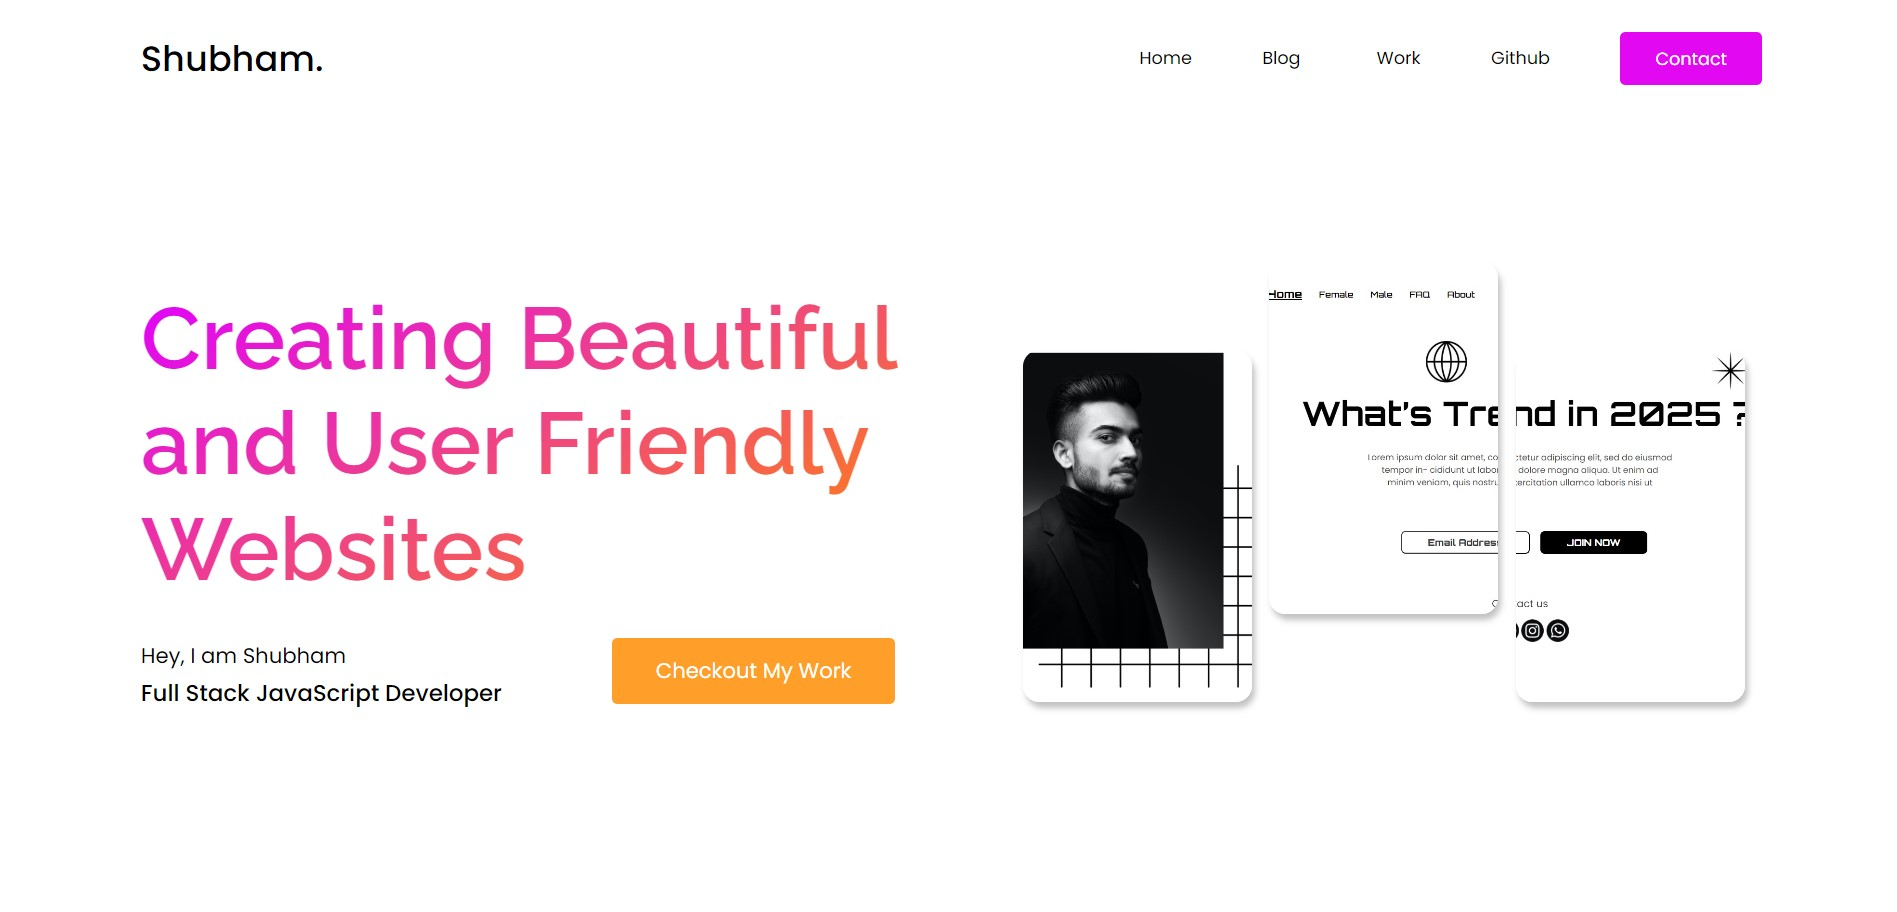
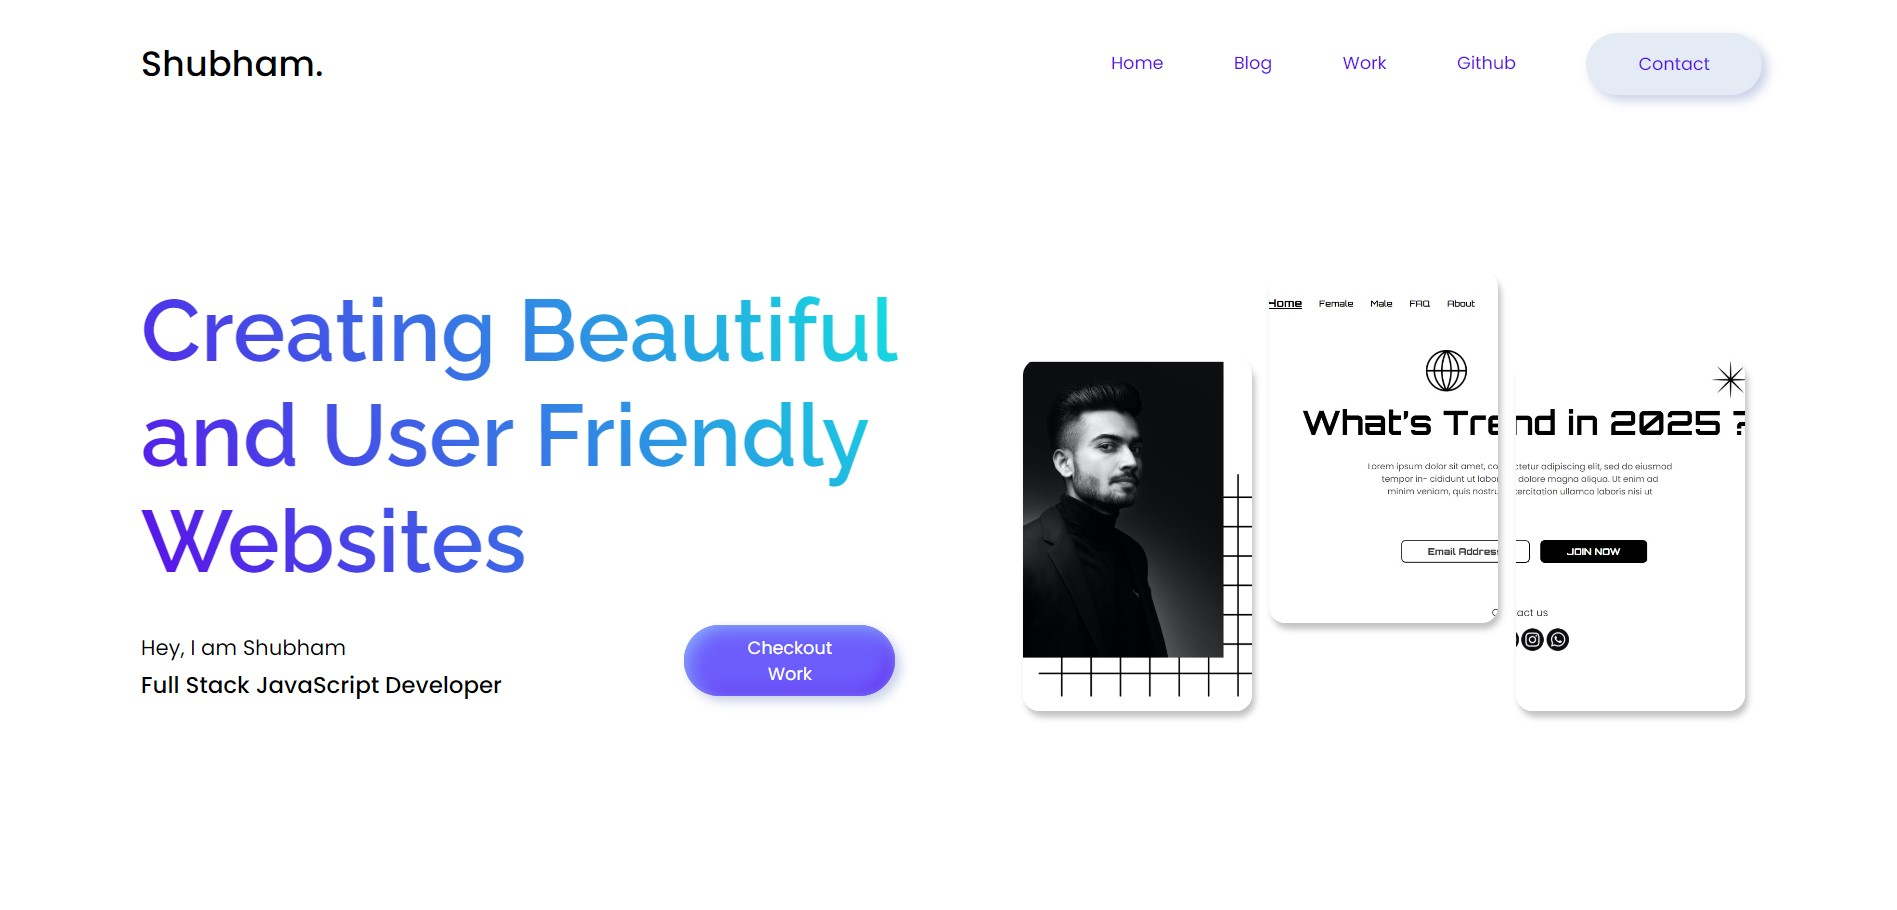
Button Design Changes

diff --git a/index.html b/index.html
@@ -26,7 +26,7 @@
                 >Github</a
               >
             </li>
-            <li class="contact">
+            <li class="contact btn btn__secondary">
               <a target="_blank" href="https://instagram.com/shubhamvscode"
                 >Contact</a
               >
@@ -43,8 +43,8 @@
               Hey, I am Shubham <br />
               <span> Full Stack JavaScript Developer </span>
 
-              <button class="hero-work-btn" type="button">
-                Checkout My Work
+              <button class="hero-work-btn btn btn__primary" type="button">
+                <a href="#work"> Checkout Work </a>
               </button>
             </p>
           </div>
@@ -70,12 +70,14 @@
             <div class="project-title">Trends in 2025</div>
             <div class="project-links">
               <a href="https://trending2025.netlify.app/">
-                <button class="project-live-link">Live</button>
+                <button class="project-live-link btn btn__primary">Live</button>
               </a>
               <a
                 href="https://github.com/ShubhamVsCode/Project-1-Trends-in-2025"
               >
-                <button class="project-github-link">
+                <button
+                  class="project-github-link btn btn__secondary btn btn__secondary"
+                >
                   <svg
                     fill="#000000"
                     xmlns="http://www.w3.org/2000/svg"
@@ -102,11 +104,11 @@
             <div class="project-title">iNeuron Eats</div>
             <div class="project-links">
               <a href="https://ineuroneats.netlify.app/">
-                <button class="project-live-link">Live</button>
+                <button class="project-live-link btn btn__primary">Live</button>
               </a>
 
               <a href="https://github.com/ShubhamVsCode/Project-2-iNeuron-Eats">
-                <button class="project-github-link">
+                <button class="project-github-link btn btn__secondary">
                   <svg
                     fill="#000000"
                     xmlns="http://www.w3.org/2000/svg"
@@ -133,12 +135,12 @@
             <div class="project-title">Court Justice</div>
             <div class="project-links">
               <a href="https://courtjustice.netlify.app/">
-                <button class="project-live-link">Live</button>
+                <button class="project-live-link btn btn__primary">Live</button>
               </a>
               <a
                 href="https://github.com/ShubhamVsCode/Project-3-Court-Justice"
               >
-                <button class="project-github-link">
+                <button class="project-github-link btn btn__secondary">
                   <svg
                     fill="#000000"
                     xmlns="http://www.w3.org/2000/svg"
@@ -165,12 +167,12 @@
             <div class="project-title">Crush You Competition</div>
             <div class="project-links">
               <a href="https://crushcompetition.netlify.app/">
-                <button class="project-live-link">Live</button>
+                <button class="project-live-link btn btn__primary">Live</button>
               </a>
               <a
                 href="https://github.com/ShubhamVsCode/Project-4-Crush-Your-Competition"
               >
-                <button class="project-github-link">
+                <button class="project-github-link btn btn__secondary">
                   <svg
                     fill="#000000"
                     xmlns="http://www.w3.org/2000/svg"
@@ -197,10 +199,10 @@
             <div class="project-title">Web3 DAO</div>
             <div class="project-links">
               <a href="https://web3dao.netlify.app/">
-                <button class="project-live-link">Live</button>
+                <button class="project-live-link btn btn__primary">Live</button>
               </a>
               <a href="https://github.com/ShubhamVsCode/Project-5-Web-3-DAO">
-                <button class="project-github-link">
+                <button class="project-github-link btn btn__secondary">
                   <svg
                     fill="#000000"
                     xmlns="http://www.w3.org/2000/svg"
@@ -227,12 +229,12 @@
             <div class="project-title">Monstera Care</div>
             <div class="project-links">
               <a href="https://monsteracare.netlify.app/">
-                <button class="project-live-link">Live</button>
+                <button class="project-live-link btn btn__primary">Live</button>
               </a>
               <a
                 href="https://github.com/ShubhamVsCode/Project-6-Monstera-Care"
               >
-                <button class="project-github-link">
+                <button class="project-github-link btn btn__secondary">
                   <svg
                     fill="#000000"
                     xmlns="http://www.w3.org/2000/svg"
@@ -259,10 +261,10 @@
             <div class="project-title">iNeuron Cart</div>
             <div class="project-links">
               <a href="https://ineuroncart.netlify.app/">
-                <button class="project-live-link">Live</button>
+                <button class="project-live-link btn btn__primary">Live</button>
               </a>
               <a href="https://github.com/ShubhamVsCode/Project-7-iNeuron-Cart">
-                <button class="project-github-link">
+                <button class="project-github-link btn btn__secondary">
                   <svg
                     fill="#000000"
                     xmlns="http://www.w3.org/2000/svg"
@@ -289,13 +291,13 @@
             <div class="project-title">Web Design Landing Page</div>
             <div class="project-links">
               <a href="https://ineurondesign.netlify.app/">
-                <button class="project-live-link">Live</button>
+                <button class="project-live-link btn btn__primary">Live</button>
               </a>
 
               <a
                 href="https://github.com/ShubhamVsCode/Project-8-Web-Design-Landing-Page"
               >
-                <button class="project-github-link">
+                <button class="project-github-link btn btn__secondary">
                   <svg
                     fill="#000000"
                     xmlns="http://www.w3.org/2000/svg"
@@ -322,13 +324,13 @@
             <div class="project-title">Portfolio</div>
             <div class="project-links">
               <a href="https://jsdevportfolio.netlify.app/">
-                <button class="project-live-link">Live</button>
+                <button class="project-live-link btn btn__primary">Live</button>
               </a>
 
               <a
                 href="https://github.com/ShubhamVsCode/Project-9-Developer-Landing-Page"
               >
-                <button class="project-github-link">
+                <button class="project-github-link btn btn__secondary">
                   <svg
                     fill="#000000"
                     xmlns="http://www.w3.org/2000/svg"
@@ -356,13 +358,13 @@
             <div class="project-title">Interior Design</div>
             <div class="project-links">
               <a href="https://interiordesignspage.netlify.app/">
-                <button class="project-live-link">Live</button>
+                <button class="project-live-link btn btn__primary">Live</button>
               </a>
 
               <a
                 href="https://github.com/ShubhamVsCode/Project-10-Interior-Design"
               >
-                <button class="project-github-link">
+                <button class="project-github-link btn btn__secondary">
                   <svg
                     fill="#000000"
                     xmlns="http://www.w3.org/2000/svg"
@@ -390,13 +392,13 @@
             <div class="project-title">Hosting Landing Page</div>
             <div class="project-links">
               <a href="https://ihosting.netlify.app/">
-                <button class="project-live-link">Live</button>
+                <button class="project-live-link btn btn__primary">Live</button>
               </a>
 
               <a
                 href="https://github.com/ShubhamVsCode/Project-11-Hosting-Website"
               >
-                <button class="project-github-link">
+                <button class="project-github-link btn btn__secondary">
                   <svg
                     fill="#000000"
                     xmlns="http://www.w3.org/2000/svg"
@@ -424,11 +426,11 @@
             <div class="project-title">SAAS Landing Page</div>
             <div class="project-links">
               <a href="https://isaas.netlify.app/">
-                <button class="project-live-link">Live</button>
+                <button class="project-live-link btn btn__primary">Live</button>
               </a>
 
               <a href="https://github.com/ShubhamVsCode/Project-13-SAAS">
-                <button class="project-github-link">
+                <button class="project-github-link btn btn__secondary">
                   <svg
                     fill="#000000"
                     xmlns="http://www.w3.org/2000/svg"
@@ -456,11 +458,11 @@
             <div class="project-title">Creativity</div>
             <div class="project-links">
               <a href="https://icreativity.netlify.app/">
-                <button class="project-live-link">Live</button>
+                <button class="project-live-link btn btn__primary">Live</button>
               </a>
 
               <a href="https://github.com/ShubhamVsCode/Project-14-Creativity">
-                <button class="project-github-link">
+                <button class="project-github-link btn btn__secondary">
                   <svg
                     fill="#000000"
                     xmlns="http://www.w3.org/2000/svg"
@@ -487,13 +489,13 @@
             <div class="project-title">Visual Designer</div>
             <div class="project-links">
               <a href="https://ineuronportfolio.netlify.app/">
-                <button class="project-live-link">Live</button>
+                <button class="project-live-link btn btn__primary">Live</button>
               </a>
 
               <a
                 href="https://github.com/ShubhamVsCode/Project-15-Portfolio-Website"
               >
-                <button class="project-github-link">
+                <button class="project-github-link btn btn__secondary">
                   <svg
                     fill="#000000"
                     xmlns="http://www.w3.org/2000/svg"
@@ -520,11 +522,11 @@
             <div class="project-title">My Portfolio</div>
             <div class="project-links">
               <a href="https://shubhamvscode.netlify.app/">
-                <button class="project-live-link">Live</button>
+                <button class="project-live-link btn btn__primary">Live</button>
               </a>
 
               <a href="https://github.com/ShubhamVsCode/My-Portfolio">
-                <button class="project-github-link">
+                <button class="project-github-link btn btn__secondary">
                   <svg
                     fill="#000000"
                     xmlns="http://www.w3.org/2000/svg"

diff --git a/css/style.css b/css/style.css
@@ -47,9 +47,10 @@ body {
   display: flex;
   align-items: center;
   gap: 4rem;
-}
-.nav-links {
   position: relative;
+}
+.nav-links a {
+  color: #5b0eeb;
 }
 
 .nav-links li:not(.contact) a::after {
@@ -58,9 +59,9 @@ body {
   top: 2px;
   content: "";
   height: 2px;
-  width: 40px;
+  width: 20px;
   border-radius: 1rem;
-  background: #c02cff;
+  background: #5b0eeb;
 
   opacity: 0;
 }
@@ -71,17 +72,12 @@ body {
 }
 
 .contact {
-  padding: 0.8rem 2rem;
-  background: #e208f1;
-  border-radius: 5px;
-  height: 3rem;
 }
 
 .contact a {
-  color: #fff;
+  color: #5b0eeb;
 }
 .contact:hover {
-  background: #c507d2;
 }
 
 .hero-container {
@@ -101,9 +97,12 @@ body {
   line-height: 1.2;
   color: transparent;
   background: rgb(0, 40, 117);
-  background: -webkit-linear-gradient(120deg, #ff8c00 0%, #e000ff 100%);
+  background: -webkit-linear-gradient(210deg, #13e0e0 0%, #5b0eeb 100%);
+  text-shadow: #8abdff;
   font-family: "Raleway";
   -webkit-background-clip: text;
+
+  margin-top: -2rem;
 }
 
 .hero-description {
@@ -119,20 +118,20 @@ body {
 }
 
 .hero-work-btn {
-  padding: 1rem 2.5rem;
-  background: #ff8c00d5;
+  width: 20rem;
+  padding: 2rem 6rem;
   position: absolute;
   right: 3px;
   bottom: 0.5rem;
   color: #fff;
-  font-size: 1.2rem;
+  font-size: 1rem;
   border: none;
   border-radius: 5px;
   cursor: pointer;
 }
 
-.hero-work-btn:hover {
-  background: #f58a06d5;
+.hero-work-btn a {
+  color: #fff;
 }
 
 .hero-right-section {
@@ -190,7 +189,7 @@ body {
   display: block;
   position: absolute;
   bottom: 4.5rem;
-  color: #ff00bf;
+  color: #5b0eeb;
   font-size: 5rem;
   font-weight: 900;
   font-family: "Raleway";
@@ -210,7 +209,7 @@ body {
   box-shadow: rgba(0, 0, 0, 0.18) 0px 2px 4px;
   border-radius: 10px;
   width: 28rem;
-  height: 22rem;
+  height: 22.6rem;
 }
 
 .project:hover {
@@ -269,9 +268,48 @@ body {
 }
 
 .project-live-link:hover {
-  box-shadow: rgba(205, 23, 255, 0.644) 2px 2px 2px;
+  /* box-shadow: rgba(205, 23, 255, 0.644) 2px 2px 2px; */
 }
 
 .project-github-link:hover {
-  box-shadow: rgba(0, 163, 46, 0.644) 2px 2px 2px;
+  /* box-shadow: rgba(0, 163, 46, 0.644) 2px 2px 2px; */
+}
+
+/* Experimental */
+
+.btn {
+  width: 10rem;
+  height: 3.5rem;
+  border-radius: 5rem;
+  box-shadow: 0.3rem 0.3rem 0.6rem #c8d0e7, -0.2rem -0.2rem 0.5rem #ffffff;
+  justify-self: center;
+  display: flex;
+  align-items: center;
+  text-align: center;
+  justify-content: center;
+  cursor: pointer;
+  transition: 0.3s ease;
+}
+.btn__primary {
+  background: #6d5dfc;
+  box-shadow: inset 0.2rem 0.2rem 1rem #8abdff,
+    inset -0.2rem -0.2rem 1rem #5b0eeb, 0.3rem 0.3rem 0.6rem #c8d0e7,
+    -0.2rem -0.2rem 0.5rem #ffffff;
+  color: #e4ebf5;
+  background: #6d5dfc;
+}
+
+.btn__primary:active {
+  box-shadow: inset 0.2rem 0.2rem 1rem #5b0eeb,
+    inset -0.2rem -0.2rem 1rem #8abdff;
+}
+
+.btn__secondary {
+  color: #6d5dfc;
+  background: #e4ebf5;
+}
+
+.btn__secondary:active {
+  box-shadow: inset 0.2rem 0.2rem 0.5rem #c8d0e7,
+    inset -0.2rem -0.2rem 0.5rem #fff;
 }
